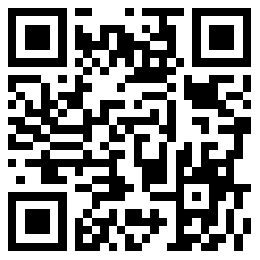
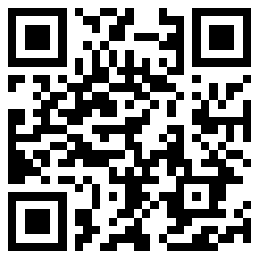
release: v0.6.3

diff --git a/README.md b/README.md
@@ -20,9 +20,15 @@ Remote debugging tool like [weinre](https://people.apache.org/~pmuellr/weinre/do
 
 ![Demo](./docs/qrcode.png)
 
-Browse it on your phone: [http://chii.liriliri.io/tests/demo.html](http://chii.liriliri.io/tests/demo.html)
+Browse it on your phone: [https://chii.liriliri.io/tests/demo.html](https://chii.liriliri.io/tests/demo.html)
 
-Open [http://chii.liriliri.io/](http://chii.liriliri.io/) and click inspect to start debugging the demo page.
+Open [https://chii.liriliri.io/](https://chii.liriliri.io/) and click inspect to start debugging the demo page.
+
+In order to try it for different sites, execute the script below on browser address bar.
+
+```javascript
+javascript:(function () { var script = document.createElement('script'); script.src="//chii.liriliri.io/target.js"; document.body.appendChild(script); })();
+```
 
 ## Install
 

diff --git a/docs/README_CN.md b/docs/README_CN.md
@@ -19,9 +19,15 @@
 
 ![Demo](./qrcode.png)
 
-请扫描二维码或在手机上直接访问：[http://chii.liriliri.io/tests/demo.html](http://chii.liriliri.io/tests/demo.html)
+请扫描二维码或在手机上直接访问：[https://chii.liriliri.io/tests/demo.html](https://chii.liriliri.io/tests/demo.html)
 
-打开 [http://chii.liriliri.io/](http://chii.liriliri.io/) 并点击 inspect 按钮开始调试示例页面。
+打开 [https://chii.liriliri.io/](https://chii.liriliri.io/) 并点击 inspect 按钮开始调试示例页面。
+
+如果想在其它页面尝试，请在浏览器地址栏上输入以下代码。
+
+```javascript
+javascript:(function () { var script = document.createElement('script'); script.src="//chii.liriliri.io/target.js"; document.body.appendChild(script); })();
+```
 
 ## 安装
 
